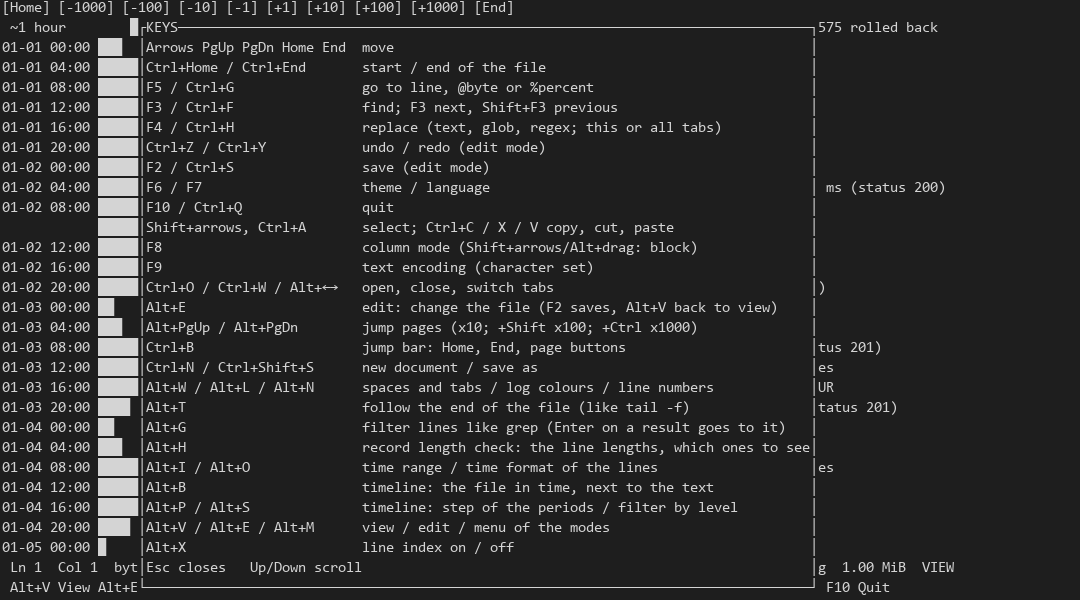
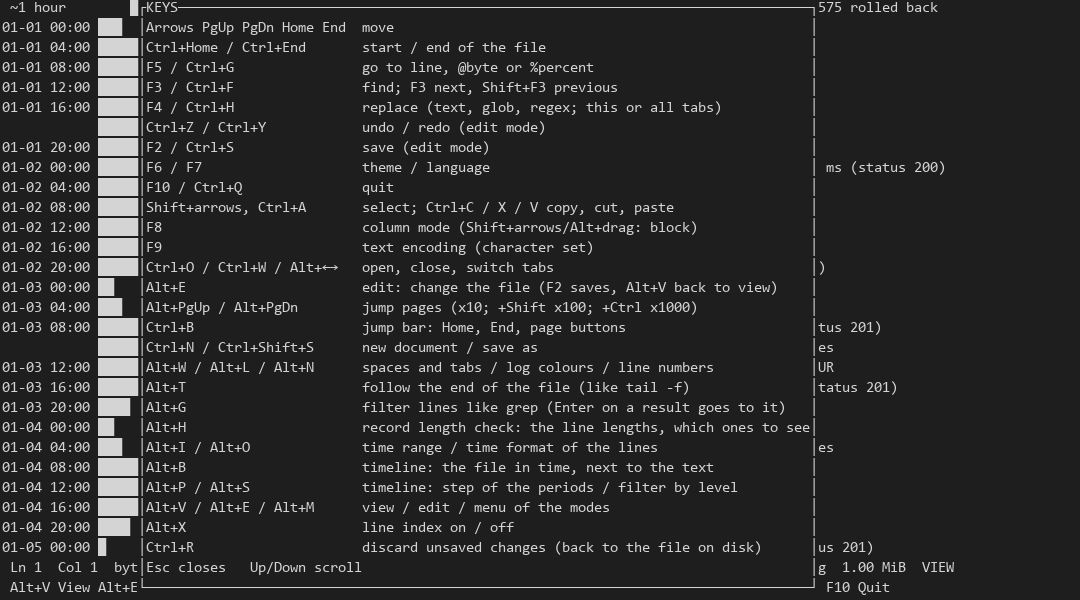
release 0.1.6: le percentuali nel check dei tracciati, i fix del dialogo e della vista filtrata, il manuale italiano completo, le schermate TUI rigenerate - dentro: istogramma con percentuali e barra a blocchi, fix overflow dialogo, fix vista filtrata (istogramma copiato dall'originale, selezione da

diff --git a/README.it.md b/README.it.md
@@ -12,7 +12,7 @@
       </p>
       <p>
         <a href="https://github.com/heavymanto/Manto.RustPad/actions/workflows/ci.yml"><img src="https://github.com/heavymanto/Manto.RustPad/actions/workflows/ci.yml/badge.svg" alt="CI" /></a>
-        <img src="https://img.shields.io/badge/versione-0.1.5-blue" alt="versione 0.1.5" />
+        <img src="https://img.shields.io/badge/versione-0.1.6-blue" alt="versione 0.1.6" />
         <img src="https://img.shields.io/badge/test-1673-brightgreen" alt="1673 test" />
         <img src="https://img.shields.io/badge/frontend-mrp--tui%20%C2%B7%20mrp--gui-blue" alt="mrp-tui e mrp-gui" />
         <img src="https://img.shields.io/badge/lingue-7-blue" alt="sette lingue" />
@@ -108,7 +108,7 @@ Non e' un analizzatore di log (gli aiuti alla lettura sono quelli che servono a 
 
 ## Download
 
-Versione attuale: **0.1.5** (novembre 2026).
+Versione attuale: **0.1.6** (novembre 2026).
 
 Niente installazione: estrai il pacchetto ed esegui. Entrambi i programmi funzionano subito in modalita' portabile (inglese incorporato, le altre sei lingue in `lang/` accanto ai programmi). Se li vuoi come comandi da qualunque cartella, c'e' `install.ps1` su Windows e `install.sh` su Linux e macOS. Su Windows, `install.ps1 -Associa` aggiunge mrp-gui all'elenco "Apri con" di `.txt` e `.log` e a Impostazioni > App predefinite, solo per l'utente corrente e senza admin: il default resta una scelta che firma Windows. Su Linux, `./install.sh --associa` imposta il default per i file di testo.
 
@@ -128,9 +128,9 @@ Niente installazione: estrai il pacchetto ed esegui. Entrambi i programmi funzio
   <a href="https://github.com/heavymanto/Manto.RustPad/stargazers"><img src="https://img.shields.io/github/stars/heavymanto/Manto.RustPad?style=flat-square&label=stelle" alt="stelle" /></a>
   <a href="https://github.com/heavymanto/Manto.RustPad/releases"><img src="https://img.shields.io/github/downloads/heavymanto/Manto.RustPad/total?style=flat-square&label=download" alt="download" /></a>
   <br/><br/>
-  <a href="https://github.com/heavymanto/Manto.RustPad/releases/download/v0.1.5/manto-rustpad-0.1.5-win-x64.zip"><img src="https://img.shields.io/badge/%E2%AC%87-Windows%20x64-2ea44f?style=for-the-badge" alt="Windows x64" /></a>
-  <a href="https://github.com/heavymanto/Manto.RustPad/releases/download/v0.1.5/manto-rustpad-0.1.5-linux-x64.tar.gz"><img src="https://img.shields.io/badge/%E2%AC%87-Linux%20x64-2ea44f?style=for-the-badge" alt="Linux x64" /></a>
-  <a href="https://github.com/heavymanto/Manto.RustPad/releases/download/v0.1.5/manto-rustpad-0.1.5-macos-aarch64.tar.gz"><img src="https://img.shields.io/badge/%E2%AC%87-macOS-2ea44f?style=for-the-badge" alt="macOS" /></a>
+  <a href="https://github.com/heavymanto/Manto.RustPad/releases/download/v0.1.6/manto-rustpad-0.1.6-win-x64.zip"><img src="https://img.shields.io/badge/%E2%AC%87-Windows%20x64-2ea44f?style=for-the-badge" alt="Windows x64" /></a>
+  <a href="https://github.com/heavymanto/Manto.RustPad/releases/download/v0.1.6/manto-rustpad-0.1.6-linux-x64.tar.gz"><img src="https://img.shields.io/badge/%E2%AC%87-Linux%20x64-2ea44f?style=for-the-badge" alt="Linux x64" /></a>
+  <a href="https://github.com/heavymanto/Manto.RustPad/releases/download/v0.1.6/manto-rustpad-0.1.6-macos-aarch64.tar.gz"><img src="https://img.shields.io/badge/%E2%AC%87-macOS-2ea44f?style=for-the-badge" alt="macOS" /></a>
 </p>
 </details>
 </div>

diff --git a/README.md b/README.md
@@ -12,7 +12,7 @@
       </p>
       <p>
         <a href="https://github.com/heavymanto/Manto.RustPad/actions/workflows/ci.yml"><img src="https://github.com/heavymanto/Manto.RustPad/actions/workflows/ci.yml/badge.svg" alt="CI" /></a>
-        <img src="https://img.shields.io/badge/version-0.1.5-blue" alt="version 0.1.5" />
+        <img src="https://img.shields.io/badge/version-0.1.6-blue" alt="version 0.1.6" />
         <img src="https://img.shields.io/badge/tests-1673-brightgreen" alt="1673 tests" />
         <img src="https://img.shields.io/badge/frontends-mrp--tui%20%C2%B7%20mrp--gui-blue" alt="mrp-tui and mrp-gui" />
         <img src="https://img.shields.io/badge/languages-7-blue" alt="seven languages" />
@@ -107,7 +107,7 @@ It is not a log analyser (the reading aids here are what a viewer needs) and it 
 
 ## Get it
 
-Current release: **0.1.5** (November 2026).
+Current release: **0.1.6** (November 2026).
 
 Nothing to install: extract and run. Both programs work right away in portable mode (English embedded, the other six languages in `lang/` next to the programs). If you want them as commands from any folder, each package carries `install.ps1` (Windows) or `install.sh` (Linux, macOS). On Windows, `install.ps1 -Associate` adds mrp-gui to the "Open with" list of `.txt` and `.log` and to Settings > Default apps, for the current user only and without admin: the default itself stays a choice Windows signs. On Linux, `./install.sh --associa` sets the default for text files.
 
@@ -127,9 +127,9 @@ Nothing to install: extract and run. Both programs work right away in portable m
   <a href="https://github.com/heavymanto/Manto.RustPad/stargazers"><img src="https://img.shields.io/github/stars/heavymanto/Manto.RustPad?style=flat-square&label=stars" alt="stars" /></a>
   <a href="https://github.com/heavymanto/Manto.RustPad/releases"><img src="https://img.shields.io/github/downloads/heavymanto/Manto.RustPad/total?style=flat-square&label=downloads" alt="downloads" /></a>
   <br/><br/>
-  <a href="https://github.com/heavymanto/Manto.RustPad/releases/download/v0.1.5/manto-rustpad-0.1.5-win-x64.zip"><img src="https://img.shields.io/badge/%E2%AC%87-Windows%20x64-2ea44f?style=for-the-badge" alt="Windows x64" /></a>
-  <a href="https://github.com/heavymanto/Manto.RustPad/releases/download/v0.1.5/manto-rustpad-0.1.5-linux-x64.tar.gz"><img src="https://img.shields.io/badge/%E2%AC%87-Linux%20x64-2ea44f?style=for-the-badge" alt="Linux x64" /></a>
-  <a href="https://github.com/heavymanto/Manto.RustPad/releases/download/v0.1.5/manto-rustpad-0.1.5-macos-aarch64.tar.gz"><img src="https://img.shields.io/badge/%E2%AC%87-macOS-2ea44f?style=for-the-badge" alt="macOS" /></a>
+  <a href="https://github.com/heavymanto/Manto.RustPad/releases/download/v0.1.6/manto-rustpad-0.1.6-win-x64.zip"><img src="https://img.shields.io/badge/%E2%AC%87-Windows%20x64-2ea44f?style=for-the-badge" alt="Windows x64" /></a>
+  <a href="https://github.com/heavymanto/Manto.RustPad/releases/download/v0.1.6/manto-rustpad-0.1.6-linux-x64.tar.gz"><img src="https://img.shields.io/badge/%E2%AC%87-Linux%20x64-2ea44f?style=for-the-badge" alt="Linux x64" /></a>
+  <a href="https://github.com/heavymanto/Manto.RustPad/releases/download/v0.1.6/manto-rustpad-0.1.6-macos-aarch64.tar.gz"><img src="https://img.shields.io/badge/%E2%AC%87-macOS-2ea44f?style=for-the-badge" alt="macOS" /></a>
 </p>
 </details>
 </div>

diff --git a/CHANGELOG.md b/CHANGELOG.md
@@ -4,6 +4,16 @@ Format inspired by "Keep a Changelog".
 
 ## [Unreleased]
 
+## [0.1.6] - 2026-11-12
+
+### Changed
+- **The record length histogram with percentages** (terminal and window): every row now shows its percentage of the total records next to the count, the bar uses full/light blocks like the timeline instead of `#`, and the dialog says at the bottom how many records and how many lengths it found. In the window the checkboxes are clickable and the dialog is slightly wider (420 px) to fit the percentage.
+
+### Fixed
+- **The filtered view showed only the already-filtered lengths** (terminal): reopening the record length check from a filtered view recomputed the histogram on the filtered content — you could see only the lengths you had already selected and could not get back to the original. The Workspace now copies the histogram from the original tab when creating the view, and the selection starts from the view's conditions.
+- **The record length dialog stole a row from the view** (terminal): the total row added in the percentage update made the dialog one line taller than the screen — the status bar (file name, mode) was pushed off view. The dialog now reserves one more row (h-4 instead of h-3).
+- **The filtered view tab name was enormous** on a file with many different line lengths: it listed every selected length (thousands of items). It now shows at most three and adds `+N`.
+
 ## [0.1.5] - 2026-11-11
 
 ### Changed
